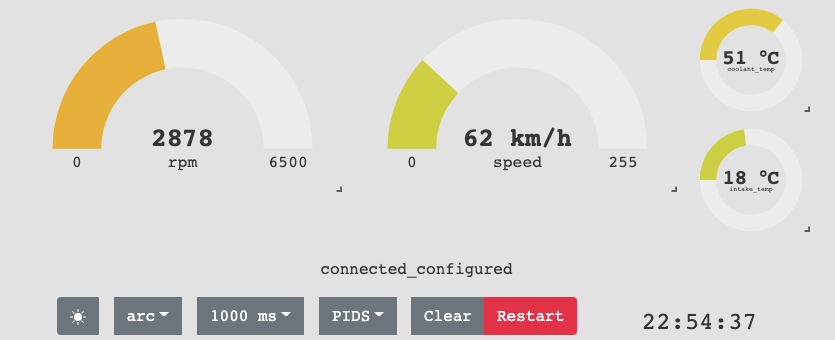
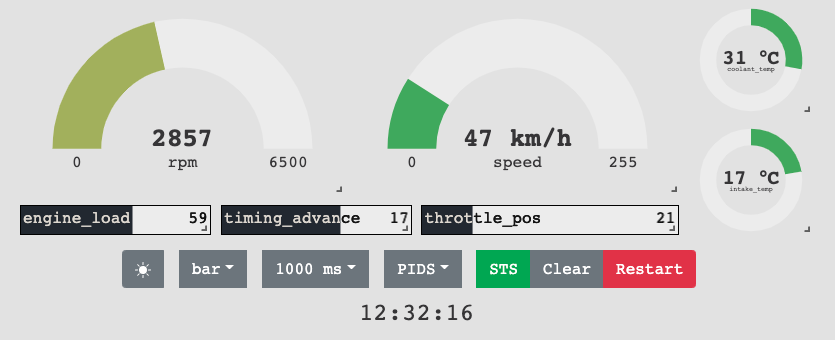
status light and small updates

diff --git a/assets/js/components/controller.js b/assets/js/components/controller.js
@@ -120,6 +120,19 @@ class Controller extends React.Component {
     this.setState({ active_interval: new_interval });
   }
 
+  statusLight(state) {
+    if (state == "connect")
+      return "danger"
+    else if (state == "configuring")
+      return "warning"
+    else if (state == "get_supported_pids")
+      return "warning"
+    else if (state == "connected_configured")
+      return "success"
+    else 
+      return "secondary"
+  }
+
   render() {
     return (
       <div>
@@ -128,9 +141,6 @@ class Controller extends React.Component {
           <div className="container p-0">
             <div className="row row-30">
               <div className="col-sm">
-                <h6>{this.state.elm_status}</h6>
-              </div>
-              <div className="col-sm">
                 <ButtonGroup aria-label="Buttons">
                   <NightMode setTheme_cb={this.props.setTheme_cb} />
                   <GaugeSelection gauges={gauges} update_active_gauge_cb={this.update_active_gauge_cb} />
@@ -138,6 +148,7 @@ class Controller extends React.Component {
                   <PidsDropdown
                     supported_pids={this.state.supported_pids}
                     maybe_start_pid_worker_cb={this.maybe_start_pid_worker_cb} />
+                  <Button variant={this.statusLight(this.state.elm_status)}>STS</Button>{' '}
                   <Button
                     onClick={() => this.clear_all_pids()}
                     variant="secondary">Clear</Button>{' '}
@@ -207,7 +218,7 @@ function readVersion() {
       return null;
     }
   }
-  if(version == null)
+  if (version == null)
     return null
   else
     return version["ver"]

diff --git a/assets/js/components/gauges/radial_gauge.js b/assets/js/components/gauges/radial_gauge.js
@@ -5,7 +5,6 @@ class RadialGauge extends React.Component {
 
     constructor(props) {
         super(props);
-        console.log(props)
         this.state = {
             value: 0,
             channel: props.channel,
@@ -23,7 +22,8 @@ class RadialGauge extends React.Component {
             labelFontColor: this.textColor(),
             valueFontColor: this.textColor(),
             donut: this.isDonut(props.type),
-            donutStartAngle: 0
+            donutStartAngle: 90,
+            customSectors: this.customSectors()
         }
     }
 
@@ -72,7 +72,7 @@ class RadialGauge extends React.Component {
             return "#ececec"
         }
         if (bodyColor == "rgb(54, 53, 55)") {
-            return "#252525"
+            return "#5e5d5f"
         }
     }
 
@@ -82,10 +82,32 @@ class RadialGauge extends React.Component {
     }
 
     isDonut(type) {
-        if(type == "radial")
+        if (type == "radial")
             return true
         else
             return false
+    }
+
+    customSectors() {
+        return {
+            percents: true, // lo and hi values are in %
+            ranges: [{
+                color: "#4CA952",
+                lo: 0,
+                hi: 60
+            },
+            {
+                color: "#FFBA49",
+                lo: 61,
+                hi: 70
+            },
+            {
+                color: "#EF5B5B",
+                lo: 71,
+                hi: 100
+            }
+            ]
+        }
     }
 
     render() {

diff --git a/assets/js/components/gauges/bar_gauge.js b/assets/js/components/gauges/bar_gauge.js
@@ -25,7 +25,6 @@ class BarGauge extends React.Component {
 
     componentDidMount() {
         this.props.channel.on("update:" + this.props.obd_pid_name, (message) => {
-
             this.setState({ value: message.value, color: this.getColor(message.value) })
         });
     }

diff --git a/README.md b/README.md
@@ -2,7 +2,6 @@
 
 # pi_dash - automotive (rally) dash written in Elixir and React that runs on Raspberry Pi
 
-![alt text](.github/readme/gui.png)
 ![alt text](.github/readme/gui2.png)
 ![alt text](.github/readme/gui3.png)
 
@@ -13,7 +12,7 @@ The reason this project came to life is that my amateur rally car was lacking a 
 In the beginning I only wanted to make a simple tachometer, but then decided to go full in and came up with this.
 
 ### **Note:**
-The project is still in development and was tested only on several cars. GUI would use some enhancements - but for now it's the simplest working solution.
+The project is still in development and was tested only on several cars. 
 #
 
 ## Features
